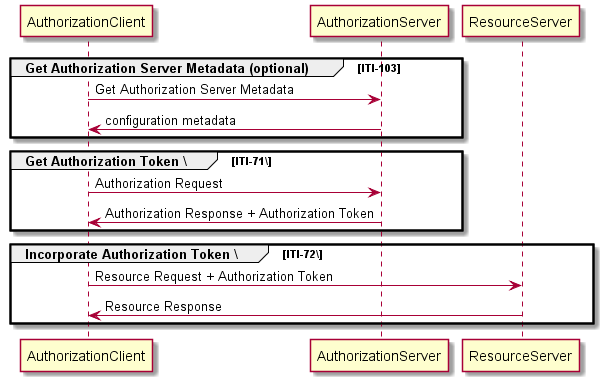
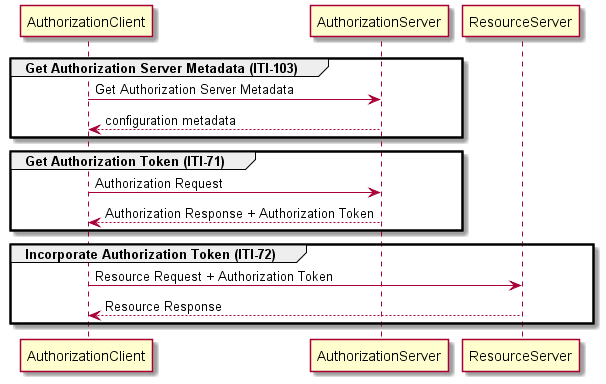
Merge of master

diff --git a/IUA.b/IHE_ITI_Suppl_IUA.md b/IUA.b/IHE_ITI_Suppl_IUA.md
@@ -62,6 +62,7 @@ The current version of the IHE Technical Framework can be found at: [http://www.
     - [3.72 Incorporate Authorization Token](#372-incorporate-authorization-token)
     - [3.102 Introspect Token](#3102-introspect-token)
     - [3.103 Get Authorization Server Metadata](#3103-get-authorization-server-metadata)
+- [33 MHD Profile](#33-mhd-profile)
 
 <!-- /TOC -->
 
@@ -477,17 +478,17 @@ Figure 3.71.4-1: Basic Process of the Authorization Token Request and Incorporat
 ```plantuml
 @startuml basic-flow
 
-group Get Authorization Server Metadata (optional) [ITI-103]
+group Get Authorization Server Metadata (ITI-103)
 AuthorizationClient -> AuthorizationServer : Get Authorization Server Metadata
-AuthorizationClient <- AuthorizationServer : configuration metadata
+AuthorizationClient <-- AuthorizationServer : configuration metadata
 end
 
-group Get Authorization Token [ITI-71]
+group Get Authorization Token (ITI-71)
 AuthorizationClient -> AuthorizationServer : Authorization Request
 AuthorizationClient <-- AuthorizationServer : Authorization Response + Authorization Token
 end
 
-group Incorporate Authorization Token [ITI-72]
+group Incorporate Authorization Token (ITI-72)
 AuthorizationClient -> ResourceServer : Resource Request + Authorization Token
 AuthorizationClient <-- ResourceServer : Resource Response
 end
@@ -512,7 +513,7 @@ Main Flow:
 
 The Get Authorization Token Request is performed by an Authorization Client or Resource Server (in case of the Introspect option) to obtain an access token to be used in further communication. The sequence of HTTP(S) requests to perform an Get Authorization Token transaction depends on the grant type (type of credentials) chosen.
 
-This profile currently supports two types of grants:
+This profile currently requires support for two types of grants:
 * OAuth2 Client Credential grant
 * Authorization Code grant
 
@@ -527,13 +528,12 @@ Figure 3.71.4.1.1-1: Sequence of HTTP requests in the client credential grant ty
 
 participant "Authorization Client" as Client
 participant "Authorization Server" as AuthzServer
-participant "Resource Server" as ResourceServer
 
 autonumber 0 1 "<b>[00]"
 
-group Get Authorization Token [ITI-71]
+group Get Authorization Token (ITI-71) [Client Credentials Grant]
 Client -> AuthzServer: Access Token Request
-AuthzServer -> Client: Access Token Response
+AuthzServer --> Client: Access Token Response
 end
 
 autonumber stop
@@ -584,38 +584,24 @@ actor User
 participant "User Agent" as UserAgent
 participant "Authorization Client" as Client
 participant "Authorization Server" as AuthzServer
-participant "Resource Server" as ResourceServer
 
 autonumber 0 1 "<b>[00]"
 
-User -> UserAgent: Access resource
-UserAgent -> Client: Access resource
+group Get Authorization Token (ITI-71) [Authorization Code Grant]
+Client -> UserAgent: Redirect to Authorization Server \n(authorization request incl requested scopes, resource, etc.)
+UserAgent -> AuthzServer: authorization request
 
-group Get Authorization Token [ITI-71]
-Client -> UserAgent: Redirect (authorization request)
+note over User, AuthzServer
+  Authorization Server determines access based on
+  user authentication, consent and/or other policies.
+end note
 
-UserAgent -> AuthzServer: Authorization Request
+AuthzServer -> UserAgent: Redirect to Client \n(authorization response with Authorization Code)
+UserAgent -> Client: authorization response
 
-group User Authentication
-AuthzServer -> AuthzServer: Authenticate User
-AuthzServer -> AuthzServer: User consent
+Client -> AuthzServer: Token Request \n(client credentials + Authorization Code)
+AuthzServer --> Client: Access Token Response (access token)
 end
-
-AuthzServer -> UserAgent: Redirect (authorization response)
-UserAgent -> Client: Callback (authorization response)
-Client -> AuthzServer: Access Token Request
-AuthzServer -> Client: Access Token Response
-end
-
-group Incorporate Authorization Token [ITI-72]
-Client -> ResourceServer: Access protected resource
-ResourceServer -> Client: Return result
-end
-
-Client -> UserAgent: Display result
-UserAgent -> User : Show result
-
-autonumber stop
 
 @enduml
 ```
@@ -662,7 +648,7 @@ If the access request is granted (by the user or some other access policy), the 
 
 The Authorization Client actor claiming the Authorization Server Metadata option SHALL use the "token_endpoint" URL from the Authorization Server Metadata Document to obtain the access token.
 
-The Authorization server SHALL direct the user agent to the Authorization Clients redirect URI with the authorization response parameter in the *application/x-www-form-urlencoded* format. The response parameter SHALL be as follows:
+The Authorization server SHALL redirect the user agent to the Authorization Clients redirect URI with the authorization response parameter in the *application/x-www-form-urlencoded* format. The response parameter SHALL be as follows:
 
 - *code* (REQUIRED): The authorization code generated by the Authorization Server.  
 
@@ -712,7 +698,7 @@ The scope parameter incorporated in the token requests SHALL be used to restrict
 
 Authorization Servers SHOULD minimize the list of identifiers in the audience claim to a minimum to avoid token misuse by unintended parties.
 
-The Authorization Client is RECOMMENDED to provide a resource value to limit usability of the requested token to the intended resource server. If provided, the Authorization Server SHALL evaluate any resource values provided as part of the token request procedure. The Authorization Server SHALL execute policies to detect wether the client has access to the indicated resource.  If the Authorization Client presented a resource value in the token request, the Authorization Servers MUST limit the list of resource server identifiers in the audience claim to only those that are essential to interact with the specified resource (typically only the resource server itself).
+The Authorization Client is RECOMMENDED to provide a resource value to limit usability of the requested token to the intended resource server. If provided, the Authorization Server SHOULD evaluate any resource values provided as part of the token request procedure. The Authorization Server SHOULD execute policies to detect wether the client has access to the indicated resource.  If the Authorization Client presented a resource value in the token request, the Authorization Servers MUST limit the list of resource server identifiers in the audience claim to only those that are essential to interact with the specified resource (typically only the resource server itself).
 
 If the request is valid, all access policy criteria are met the Authorization Server SHALL respond with the access token response as outlined in section [3.71.4.2 Get Authorization Token Response](#37142-get-authorization-token-response).
 
@@ -804,13 +790,12 @@ In the JSON Web Token option the access token is defined as JSON object with the
 
 - *iat* (OPTIONAL): The issuing date in Numeric Date format [JWT, Section 4.1.6].  
 
-
 The JWT access token MAY contain other parameter or extensions depending on the implementation details.
 
 
 ###### 3.71.4.2.2.1 JWT IUA extension
 
-The Authorization Client, Authorization Server, and Resource Server SHALL support the following extensions to the JWT access token:
+The Authorization Server and Resource Server SHALL support the following extensions to the JWT access token:
 
 - *subject\_name* (OPTIONAL): The user's name as String.
 
@@ -826,7 +811,6 @@ The Authorization Client, Authorization Server, and Resource Server SHALL suppor
 - *national\_provider\_identifier* (OPTIONAL): A unique identifier issued to health care providers by their national authority.
 
 - *person\_id* (OPTIONAL): Patient ID, Citizen ID, or other similar public identifier.
-
 
 The above claims SHALL be wrapped in an "extensions" object with key 'ihe\_iua' and a JSON value object containing the claims, as such
 
@@ -861,7 +845,7 @@ Table 3.71.6.1.1-1: JWT claims of the IUA extension and corresponding XUA Assert
 
 ###### 3.71.4.2.2.2 JWT BPPC extension
 
-In a environment which uses the IHE BPPC profile for documenting the consent, the Authorization Client, Authorization Server, and Resource Server SHALL support the following extension parameter:
+In an environment which uses the IHE BPPC profile for documenting the consent, the Authorization Client, Authorization Server, and Resource Server SHALL support the following extension parameter:
 
 - *patient\_id*: Patient ID related to the Patient Privacy Policy Identifier. It's value SHOULD be the patient identifier in CX syntax or as URL.
 
@@ -949,7 +933,7 @@ In accordance to [RFC7522, Section 2.2], the value of the access token contains 
 ##### 3.71.4.2.3 Token Introspection Option
 Implementations relying on Token Introspection option are not restricted in the access token format. This format MAY be different from the JWT or SAML tokens as described in section [3.71.4.2.2](#371422-json-web-token-option) and [3.71.4.2.3](#371423-saml-token-option). 
 
-*Note:* using this option, the access token MAY be formatted as an opaque identifier without further (security sensitive) content. In such cases, the Authorization Server MUST have means to retrieve and communicate the associated claims during token introspection (for details see the ITI-103 transaction.)
+*Note:* using this option, the access token MAY be formatted as an opaque identifier without further (security sensitive) content. In such cases, the Authorization Server MUST have means to retrieve and communicate the associated claims during token introspection (for details see transaction ITI-103.)
 
 ### 3.71.5 Security Considerations
 
@@ -1014,7 +998,7 @@ Where:
 
 
 
-| **Editory please Add Section 3.72**  |
+| **Editor please Add Section 3.72**  |
 |------------------------------|
 
 
@@ -1133,13 +1117,13 @@ A Resource Server that claims conformance to the SAML Token Option SHALL be able
 A Resource Server that claims conformance to the Authorization Server Metadata Option SHALL use the keys published through the Authorization Server Metadata Document for validating the SAML token's signature.
 
 #### 3.72.7.4 Introspect Token Option
-A Resource Server that claims conformance to the Token Introspection Option SHALL be able to interact with the Authorization Server using transaction ITI-103 as described in section 3.102 to validate the access token and obtain the related claims.
+A Resource Server that claims conformance to the Token Introspection Option SHALL be able to interact with the Authorization Server using transaction ITI-102 as described in section [3.102](#3102-introspect-token) to validate the access token and obtain the related claims.
 
 A Resource Server that claims conformance to the Authorization Server Metadata Option SHALL use the introspection endpoint published through the Authorization Server Metadata Document for validating the token and obtaining the related claims.
 
 ### 3.72.8 Security Considerations
 
-Authorization Client and Resource Server claiming compliance with this profile SHALL fulfill the security requirements defined in the OAuth Authorization Framework [OAuth 2.1], especially:
+Authorization Clients and Resource Servers claiming compliance with this profile SHALL fulfill the security requirements defined in the OAuth Authorization Framework [OAuth 2.1], especially:
 
 - All HTTP transaction must be secured by using TLS or equivalent transport security.
 
@@ -1208,7 +1192,7 @@ From the perspective of the Authorization Client there is no difference, but the
 
 Figure 3.102.4-1: ITI-102 Introspect Diagram
 
-```
+```plantuml
 @startuml introspect 
 
 participant "Authorization Client" as Client
@@ -1223,7 +1207,7 @@ group (optional) Get Authorization Server Metadata (ITI-103)
     AuthzServer --> ResourceServer: metadata
 end
 
-group Get Authorization Token [ITI-71]   
+group Get Authorization Token (ITI-71)
 Client -> AuthzServer : Authorization Request  
 Client <-- AuthzServer : Authorization Response (incl. Client Access Token)  
 
@@ -1231,10 +1215,10 @@ ResourceServer -> AuthzServer : Authorization Request
 ResourceServer <-- AuthzServer : Authorization Response (incl. RS Access Token)  
 end
 
-group Incorporate Authorization Token [ITI-72]  
+group Incorporate Authorization Token (ITI-72)  
 Client -> ResourceServer : Resource Request + Client Access Token
 
-group Introspect Token [ITI-102]  
+group Introspect Token (ITI-102)  
 ResourceServer -> AuthzServer : Introspection Request + RS Access Token + Client Access Token  
 ResourceServer <-- AuthzServer : Introspection Response
 end
@@ -1327,7 +1311,7 @@ The Resource Server MAY cache introspection results for a given access token in 
 
 ### 3.102.5 Security Considerations
 
-Resource Server and Authorization Server claiming compliance with this option SHALL fulfill the security requirements defined in RFC7662, especially
+Resource Server and Authorization Server claiming compliance with this option SHALL fulfill the security requirements defined in [RFC7662], especially
 
 - All HTTP transaction must be secured by using TLS or equivalent transport security.
 
@@ -1490,7 +1474,7 @@ As the metadata document is intended to support the authorization processes, the
 
 | **Editor: Please add the following to MHD Volume 1: section 33.5 MHD Security Considerations**                      |
 |------------------------------------------------|
-## MHD Profile
+# 33 MHD Profile
 
 ### 33.5.1 Use with IUA Profile
 
